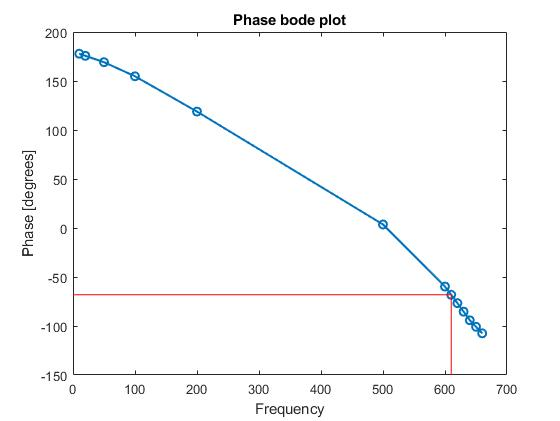
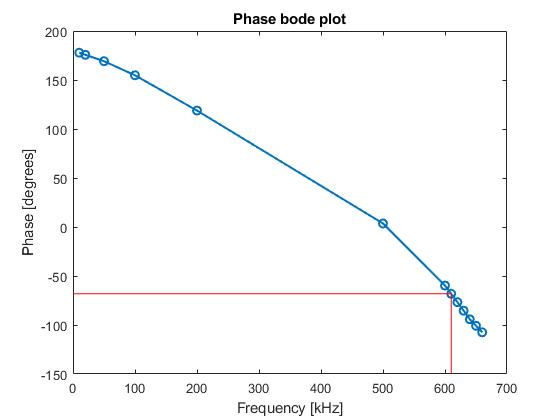
Added log scales

diff --git a/Lab 2/Analog screenshots/Gain 3/IN1/bode_graph.m b/Lab 2/Analog screenshots/Gain 3/IN1/bode_graph.m
@@ -30,23 +30,23 @@ disp(mod);
 disp(phase);
 
 figure(3);
-ln1 = plot(freq,mod);
+ln1 = semilogx(freq,mod);
 ln1.LineWidth = 1.5;
 ln1.Marker = 'o';
 title('Magnitude bode plot')
-xlabel('Frequency') 
+xlabel('Frequency [kHz]') 
 ylabel('Magniture [dB]') 
 y = mod(2)-3;
-line([0,700],[y,y],'color', 'red')
+line([10,700],[y,y],'color', 'red')
 line([freq(10),freq(10)],[5,y],'color', 'red')
 
 figure(4)
-ln2 = plot(freq,phase);
+ln2 = semilogx(freq,phase);
 ln2.LineWidth = 1.5;
 ln2.Marker = 'o';
 title('Phase bode plot')
-xlabel('Frequency') 
+xlabel('Frequency [kHz]') 
 ylabel('Phase [degrees]')
 line([freq(10),freq(10)],[-300,phase(10)],'color', 'red')
-line([0,freq(10)],[phase(10),phase(10)],'color', 'red')
+line([10,freq(10)],[phase(10),phase(10)],'color', 'red')
 

diff --git a/Lab 2/Analog screenshots/Gain 3/IN2/bode_graph_inv.m b/Lab 2/Analog screenshots/Gain 3/IN2/bode_graph_inv.m
@@ -30,23 +30,23 @@ disp(mod);
 disp(phase);
 
 figure(1);
-ln1 = plot(freq,mod);
+ln1 = semilogx(freq,mod);
 ln1.LineWidth = 1.5;
 ln1.Marker = 'o';
 title('Magnitude bode plot')
-xlabel('Frequency') 
+xlabel('Frequency[kHz]') 
 ylabel('Magniture [dB]') 
 y = mod(2)-3;
-line([0,700],[y,y],'color', 'red')
+line([10,1000],[y,y],'color', 'red')
 line([freq(8),freq(8)],[4,y],'color', 'red')
 
 figure(2)
-ln2 = plot(freq,phase);
+ln2 = semilogx(freq,phase);
 ln2.LineWidth = 1.5;
 ln2.Marker = 'o';
 title('Phase bode plot')
-xlabel('Frequency') 
+xlabel('Frequency [kHz]') 
 ylabel('Phase [degrees]')
 line([freq(8),freq(8)],[-150,phase(8)],'color', 'red')
-line([0,freq(8)],[phase(8),phase(8)],'color', 'red')
+line([10,freq(8)],[phase(8),phase(8)],'color', 'red')
 

diff --git a/Lab 2/Analog screenshots/Gain 3/CMRR.m b/Lab 2/Analog screenshots/Gain 3/CMRR.m
@@ -1,0 +1,25 @@
+data = [	1, 1.6
+	10,2
+	20,3.1
+	50,7
+	100,10
+	200, 15];
+dim = size(data);
+freq = zeros(dim(1),1);
+magn = zeros(dim(1),1);
+Ad = 3;
+ampl = 100; %mV
+for i=1:size(data)
+freq(i) = data(i,1);
+magn(i) = 20*log10((Ad*ampl)/data(i,2));
+    disp(i)
+end
+
+freq1 = [1:10:200];
+magn1 = spline(freq, magn, freq1);
+semilogx(freq, magn);
+hold on;
+%semilogx(freq1, magn1, 'color', 'red');
+title('CMRR plot')
+xlabel('Frequency [kHz]') 
+ylabel('Magniture [dB]') 
